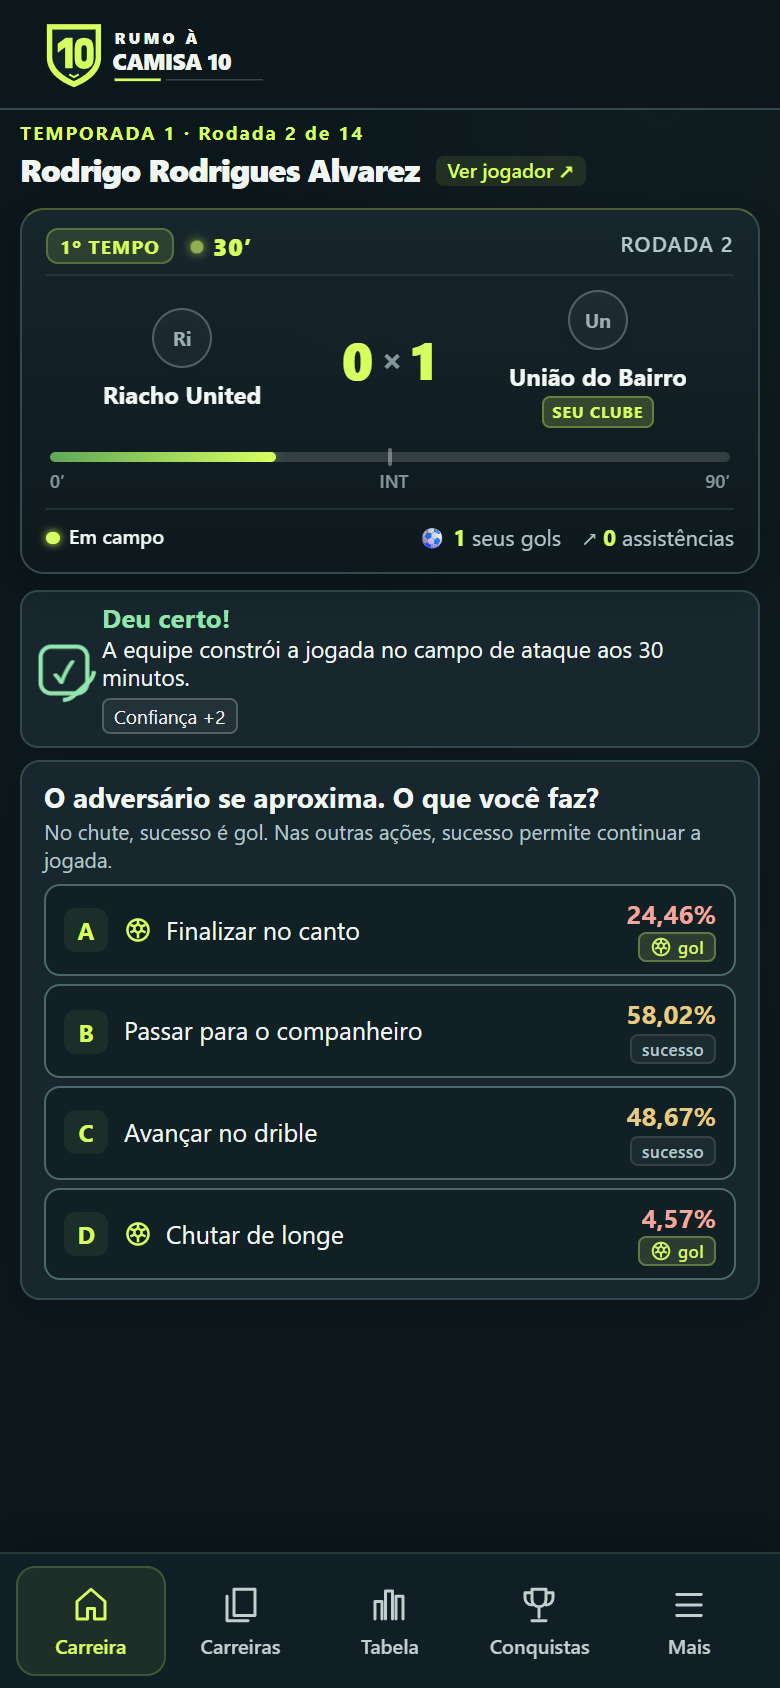
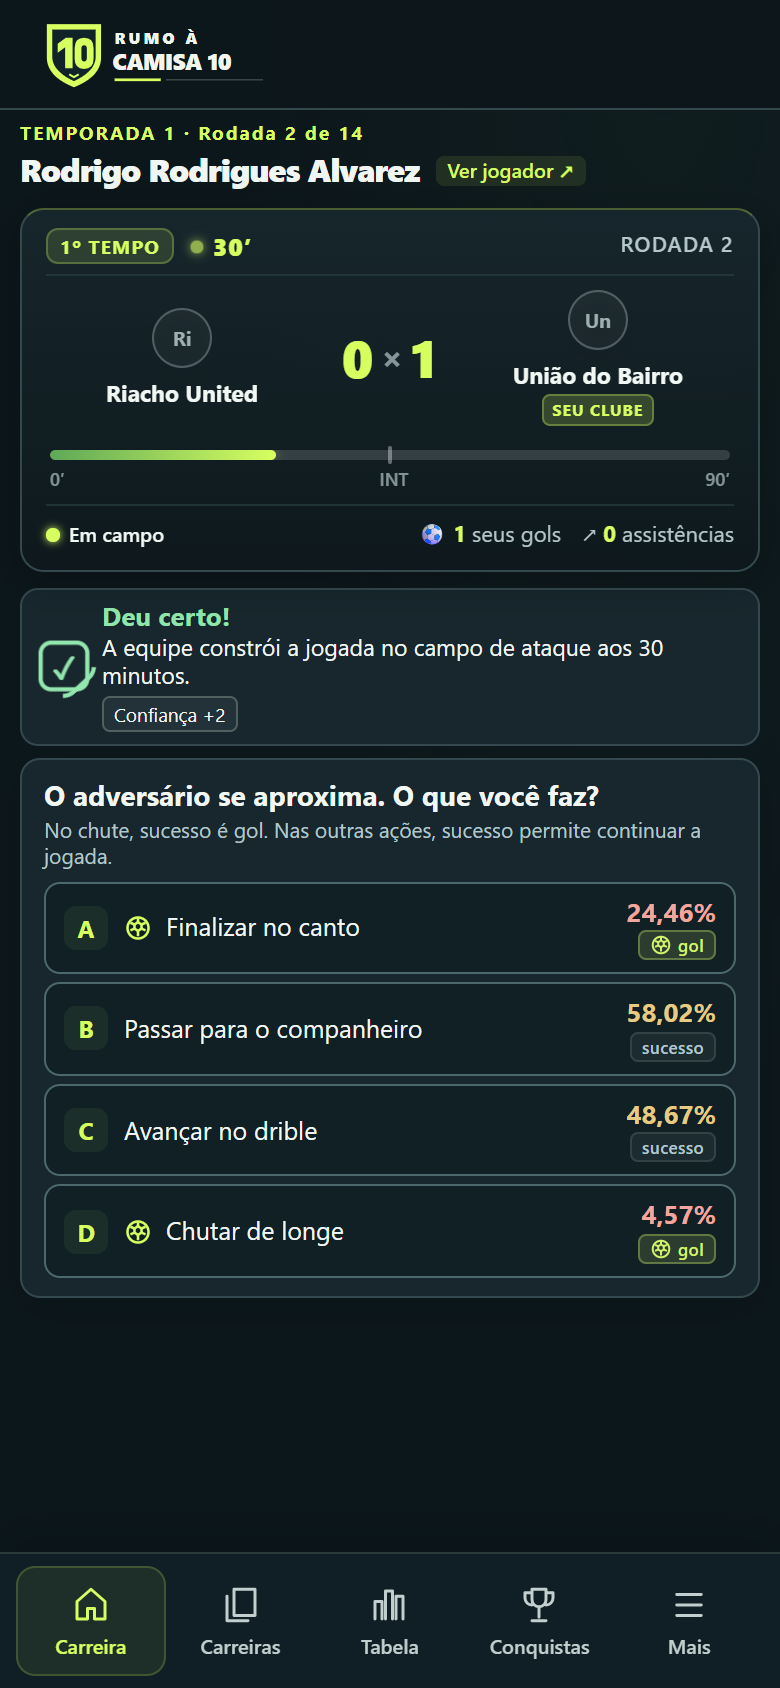
fix(ui): correcao visual de layout no placar e alinhamento de encerramento (OS-COR-F03-R6)

Changed region(s): [[0.0308, 0.3081, 0.9538, 0.7701], [0.6462, 0.2156, 0.8923, 0.2773], [0.1231, 0.2156, 0.3385, 0.2464]]

diff --git a/public/assets/visual.css b/public/assets/visual.css
@@ -655,25 +655,28 @@ main.container {
   display: flex;
   flex-direction: column;
   min-width: 0;
+  flex: 1 1 auto;
 }
 
 .team-home .team-meta {
   align-items: flex-end;
+  text-align: right;
 }
 
 .team-away .team-meta {
   align-items: flex-start;
+  text-align: left;
 }
 
 .team-name {
-  font-size: 14.5px;
+  font-size: 14px;
   font-weight: 700;
   color: var(--text);
   line-height: 1.25;
-  white-space: nowrap;
-  overflow: hidden;
-  text-overflow: ellipsis;
-  max-width: 170px;
+  white-space: normal;
+  word-break: normal;
+  overflow-wrap: break-word;
+  max-width: 100%;
 }
 
 .team-user-pill {
@@ -1504,12 +1507,29 @@ footer strong {
   }
 }
 
+/* Elementos de áudio e acessibilidade ocultos que não devem gerar caixas de layout ou faixas de grid */
+.sr-only,
+.visually-hidden,
+div[data-sound-event].sr-only {
+  position: absolute !important;
+  width: 1px !important;
+  height: 1px !important;
+  padding: 0 !important;
+  margin: -1px !important;
+  overflow: hidden !important;
+  clip: rect(0, 0, 0, 0) !important;
+  white-space: nowrap !important;
+  border: 0 !important;
+  display: none !important;
+}
+
 /* Requisito 5: Duas colunas em telas desktop quando houver informações complementares */
 @media(min-width:761px) {
   .playing main.container:has(>.game-layout) {
     display: grid;
     grid-template-columns: minmax(0, 1fr) minmax(0, 1fr);
     gap: 12px;
+    align-items: start;
     max-width: 960px;
     min-height: 0;
     padding-top: 14px;
@@ -1532,26 +1552,34 @@ footer strong {
     width: 100%;
     max-width: none;
     margin: 0;
+    align-self: start;
   }
 
   .playing .compact-score,
   .playing .post-match {
     grid-column: 1/-1;
     margin: 0;
+    align-self: start;
   }
 
   /* Duas colunas quando houver resultado + placar/pós-jogo */
   .playing main:has(>.action-result):has(.compact-score) .action-result,
   .playing main:has(>.action-result):has(.post-match) .action-result {
     grid-column: 1;
+    grid-row: 2;
+    align-self: start;
   }
 
   .playing main:has(>.action-result) .compact-score {
     grid-column: 2;
+    grid-row: 2;
+    align-self: start;
   }
 
   .playing main:has(>.action-result) .post-match {
     grid-column: 2;
+    grid-row: 2;
+    align-self: start;
   }
 
   /* Painel de decisão central */
@@ -2073,6 +2101,8 @@ body.post-match-decision .season-recap {
   .in-match .team-away .team-meta {
     align-items: center;
     text-align: center;
+    width: 100%;
+    min-width: 0;
   }
   .in-match .compact-score .score-team .club-badge,
   .in-match .compact-score .badge-pending {
@@ -2083,8 +2113,13 @@ body.post-match-decision .season-recap {
     font-size: 10px;
   }
   .in-match .team-name {
-    font-size: 12px;
-    max-width: 105px;
+    font-size: 11.5px;
+    line-height: 1.2;
+    white-space: normal;
+    word-break: normal;
+    overflow-wrap: break-word;
+    max-width: 100%;
+    text-align: center;
   }
   .in-match .team-user-pill {
     font-size: 8px;

diff --git a/tests/test-f03-corrections.php b/tests/test-f03-corrections.php
@@ -515,7 +515,72 @@ foreach ($r5Scenarios as $key => $sc) {
     }
 }
 
+echo "\n=========================================================================\n";
+// =========================================================================
+// 4. VALIDAÇÃO DAS CORREÇÕES VISUAIS DE LAYOUT (OS-COR-F03-R6)
+// =========================================================================
+echo "4. Validando Regras CSS e Layout da R6 (Placar sem corte e Encerramento alinhado)...\n";
+
+$cssContent = file_get_contents(dirname(__DIR__).'/public/assets/visual.css');
+
+// 4.1 Validação do Placar (Quebra de linha de nomes extensos sem corte e sem truncamento)
+ok(str_contains($cssContent, '.team-name') && str_contains($cssContent, 'white-space: normal'), 'R6: .team-name permite quebra de linha (white-space: normal)');
+ok(str_contains($cssContent, 'overflow-wrap: break-word'), 'R6: .team-name quebra palavras longas com overflow-wrap: break-word');
+ok(str_contains($cssContent, 'max-width: 100%'), 'R6: .team-name se adapta ao espaço disponível com max-width: 100%');
+ok(!str_contains($cssContent, 'max-width: 170px'), 'R6: Limite fixo de 170px removido de .team-name');
+ok(!str_contains($cssContent, 'max-width: 105px'), 'R6: Limite fixo de 105px no mobile removido de .team-name');
+
+// 4.2 Validação de Isolamento de Elementos de Áudio e Acessibilidade (sr-only)
+ok(str_contains($cssContent, 'div[data-sound-event].sr-only') || str_contains($cssContent, '.sr-only'), 'R6: Regra para elementos .sr-only / áudio presente');
+ok(str_contains($cssContent, 'position: absolute !important'), 'R6: .sr-only é removido do fluxo normal com position: absolute');
+ok(str_contains($cssContent, 'display: none !important'), 'R6: .sr-only não cria caixas de layout no grid (display: none !important)');
+
+// 4.3 Validação de Alinhamento Superior no Desktop (align-items: start / align-self: start / grid-row: 2)
+ok(str_contains($cssContent, 'align-items: start'), 'R6: Container desktop utiliza align-items: start');
+ok(str_contains($cssContent, 'grid-row: 2'), 'R6: Acontecimentos e resultado pós-jogo utilizam a mesma linha (grid-row: 2)');
+ok(str_contains($cssContent, 'align-self: start'), 'R6: Painéis de acontecimentos e resultado utilizam align-self: start');
+
+// 4.4 Validação no HTML gerado para EC São Bernardo-SP x Marília-SP
+$gHalftimeTest = Game::legacyCreate('Rodrigo Alvarez', 'EC São Bernardo-SP', 'SP', 'centroavante');
+$gHalftimeTest['stage'] = 'partida';
+$gHalftimeTest['round'] = 2;
+$gHalftimeTest['club'] = 'EC São Bernardo-SP';
+$gHalftimeTest['matches'] = [[
+    'round' => 2,
+    'home' => 'EC São Bernardo-SP',
+    'away' => 'Marília-SP',
+    'status' => 'intervalo',
+    'minute' => 45,
+    'entry' => 0,
+    'exit' => 90,
+    'lineup' => 'titular',
+    'participation_state' => 'ON_FIELD',
+    'hg' => 1,
+    'ag' => 0,
+    'stats' => ['goals'=>1,'assists'=>0,'shots'=>2,'passes'=>4,'completed'=>3,'minutes'=>45,'rating'=>7.2],
+    'log' => []
+]];
+$gHalftimeTest['feedback'] = [
+    'success' => true,
+    'class' => 'sucesso',
+    'highlight' => null,
+    'text' => 'Fim do primeiro tempo com vantagem da sua equipe.',
+    'effects' => []
+];
+
+$baseGame = $g;
+$g = $gHalftimeTest;
+ob_start();
+include dirname(__DIR__).'/app/view.php';
+$htmlHalftimeView = ob_get_clean();
+$g = $baseGame;
+
+ok(str_contains($htmlHalftimeView, 'EC São Bernardo-SP'), 'R6: Nome completo do mandante "EC São Bernardo-SP" presente no HTML');
+ok(str_contains($htmlHalftimeView, 'Marília-SP'), 'R6: Nome do visitante "Marília-SP" presente no HTML');
+ok(str_contains($htmlHalftimeView, 'r10-scoreboard'), 'R6: Placar da partida renderizado');
+ok(str_contains($htmlHalftimeView, 'badge-intervalo'), 'R6: Distintivo de Intervalo presente');
+
 echo "\n=======================================================\n";
 echo "TOTAL: {$checks} verificações executadas e APROVADAS!\n";
-echo "SUCESSO: OS-COR-F03-R5 verificada na página completa com perfeição!\n";
+echo "SUCESSO: OS-COR-F03-R6 verificada com rigor absoluto!\n";
 echo "=======================================================\n";

diff --git a/Docs/48_Placar_Visual_Partida_v03.md b/Docs/48_Placar_Visual_Partida_v03.md
@@ -90,6 +90,25 @@ Melhorar a apresentação visual das partidas do Rumo10, mantendo integralmente 
      - 4A. `status=pre_jogo`, `stage=pre_jogo` -> Banner pré-jogo exibido (sem placar em andamento).
      - 4B. `status=finalizada`, `stage=fim_semana` -> Painel pós-jogo com apito final (sem placar em andamento).
 
+## Correção Visual de Layout (OS-COR-F03-R6)
+
+### 1. Placar com quebra de linha fluida para nomes extensos (`public/assets/visual.css`)
+- **Causa raiz:** No desktop, `.compact-score .score-row` define colunas de proporção `1fr auto 1fr`. Com card de 456px, a coluna do mandante dispõe de ~157px. Como o escudo consome 42px (+10px de gap = 52px), restavam ~105px para `.team-meta`. O seletor `.team-name` impunha `white-space: nowrap; max-width: 170px;`. Nomes longos como `"EC São Bernardo-SP"` (~136px) ultrapassavam a coluna e, devido ao flex com `justify-content: flex-end`, extravasavam -11.78px para a esquerda, cortando o início do nome na borda do card. No mobile, `max-width: 105px;` com `text-overflow: ellipsis;` truncava artificialmente o nome com reticências.
+- **Solução:**
+  - Removidos limites artificiais de largura (`max-width: 170px` no desktop e `max-width: 105px` no mobile), substituindo por `max-width: 100%` adaptativo.
+  - Substituído `white-space: nowrap` por `white-space: normal`, acompanhado de `overflow-wrap: break-word` e `word-break: normal`.
+  - Definido `flex: 1 1 auto; min-width: 0;` em `.team-meta`, contendo a tipografia perfeitamente dentro da coluna flex/grid.
+  - No mobile, centralização uniforme abaixo do escudo, permitindo que nomes extensos ocupem duas linhas com legibilidade impecável sem cortes ou reticências.
+
+### 2. Alinhamento dos painéis de encerramento no desktop (`public/assets/visual.css`)
+- **Causa raiz:** Na tela de encerramento (`stage=fim_semana`), a chamada `Presentation::matchSounds($g,$m)` renderiza uma tag invisível `<div data-sound-event="MATCH_WHISTLE_END" class="sr-only" aria-hidden="true"></div>` diretamente no container principal (`main.container`). Por ser um container CSS Grid de 2 colunas no desktop, o elemento `.sr-only` não possuía regras CSS de isolamento e era posicionado pelo algoritmo de auto-placement na linha 2, coluna 2. Isso empurrava o painel pós-jogo (`.post-match`, restrito à coluna 2) para a **linha 3**, criando um vão vertical de 95.6px em relação ao painel de acontecimentos (`.action-result`, linha 2, coluna 1).
+- **Solução:**
+  - Regra CSS estrita para `.sr-only`, `.visually-hidden` e `div[data-sound-event].sr-only` com `position: absolute !important; display: none !important;`, impedindo qualquer geração de caixas ou faixas no grid.
+  - Fixação explícita de `grid-row: 2` e `align-self: start` em `.action-result` e `.post-match`, combinada com `align-items: start` no container desktop.
+  - Os dois painéis passam a iniciar no mesmo pixel vertical (`top: 159.39px`), com alturas naturais e independentes.
+  - No mobile, empilhamento fluido e sequencial sem rolagem horizontal ou sobreposições.
+
+
 
 
 
